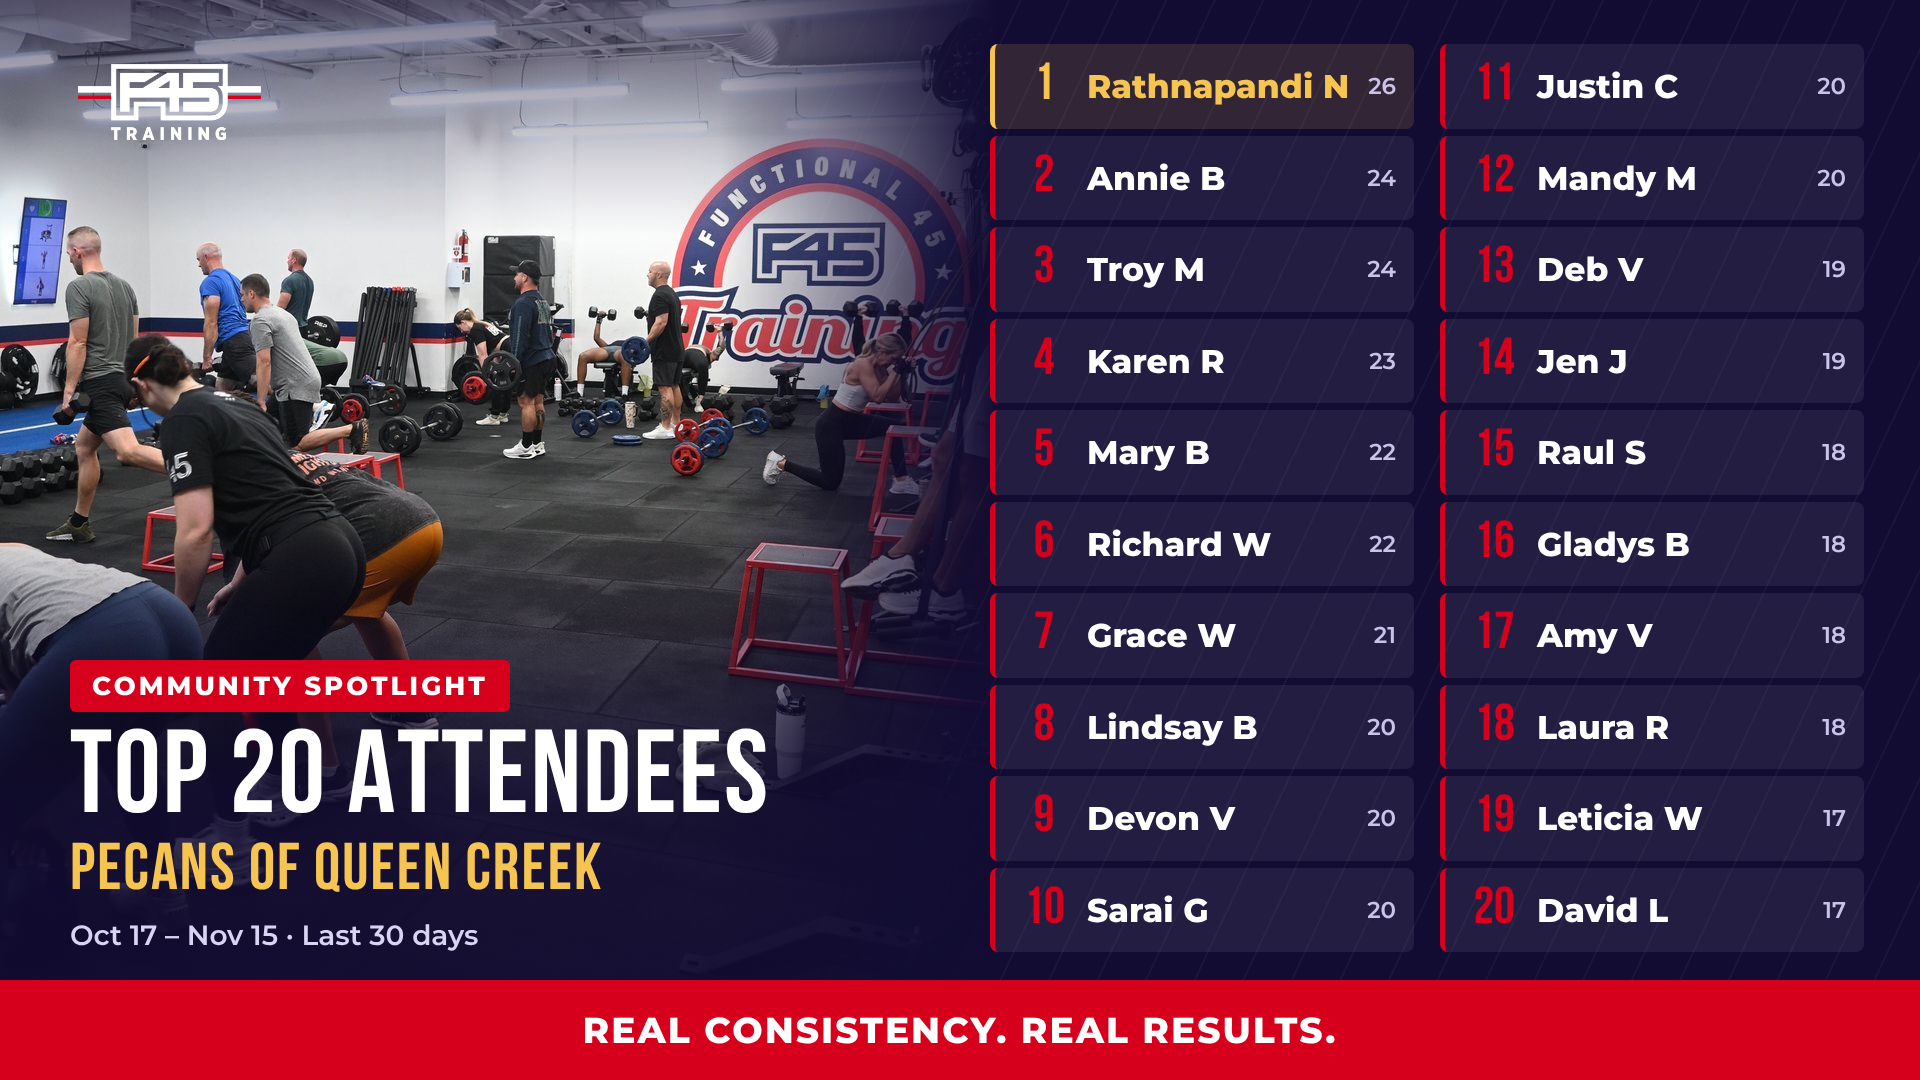
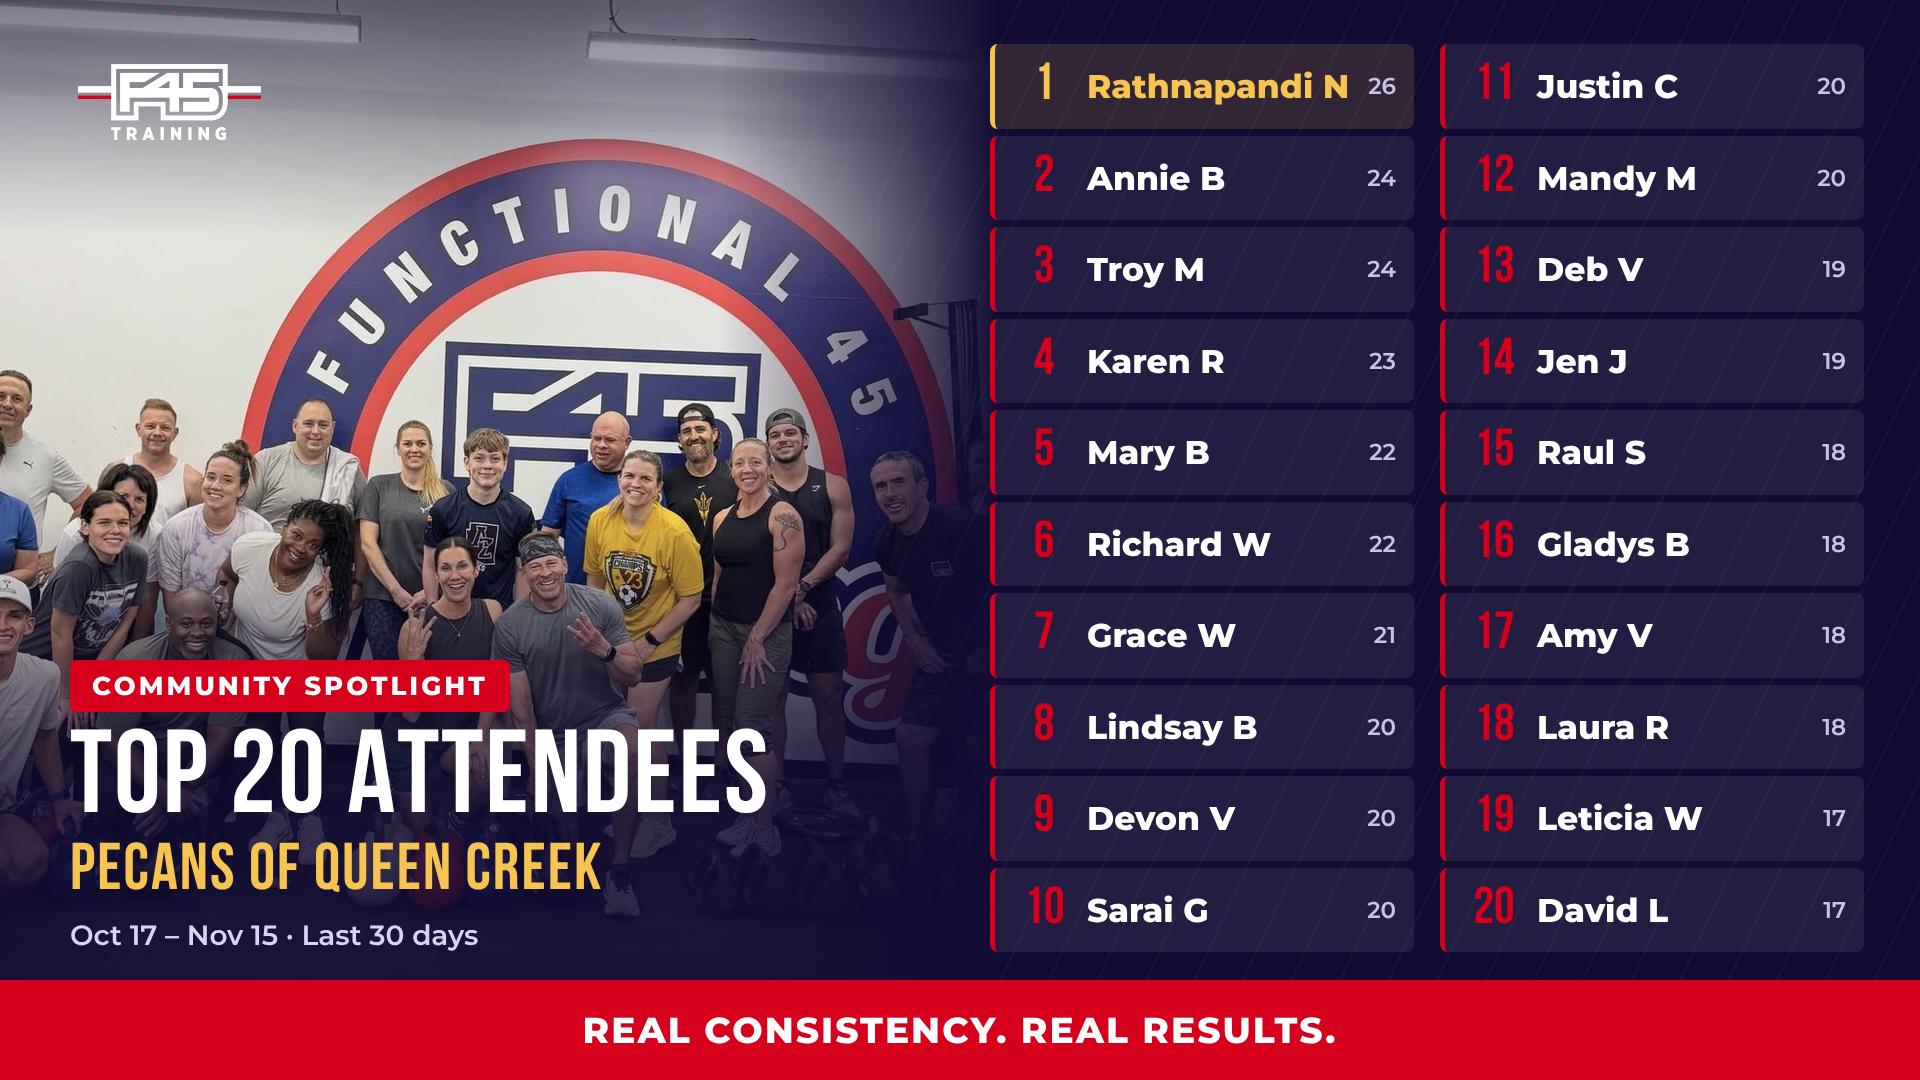
Top 20 attendees: Pecans new photo
Claude-Session: https://claude.ai/code/session_01YPXGFMcdUw7bngp8biwJgG

diff --git a/top-attendees-live/screen/pecans_of_queen_creek.html b/top-attendees-live/screen/pecans_of_queen_creek.html
@@ -3,8 +3,8 @@
 <body><img id="s" alt="">
 <script>
 // Shows the slide only inside its window (America/Phoenix, UTC-7). After that: FALLBACK_URL if set, else a dark screen.
-var START=new Date("2026-11-16T00:00:00-07:00"),END=new Date("2026-11-26T00:00:00-07:00"),FALLBACK_IMG="../current/pecans_of_queen_creek_welcome.png?v=20261116";
+var START=new Date("2026-11-16T00:00:00-07:00"),END=new Date("2026-11-26T00:00:00-07:00"),FALLBACK_IMG="../current/pecans_of_queen_creek_welcome.png?v=20261116b";
 var n=new Date();
-if(n>=START&&n<END){document.getElementById("s").src="../current/pecans_of_queen_creek.png?v=20261116";}
+if(n>=START&&n<END){document.getElementById("s").src="../current/pecans_of_queen_creek.png?v=20261116b";}
 else{document.getElementById("s").src=FALLBACK_IMG;}
 </script></body></html>
